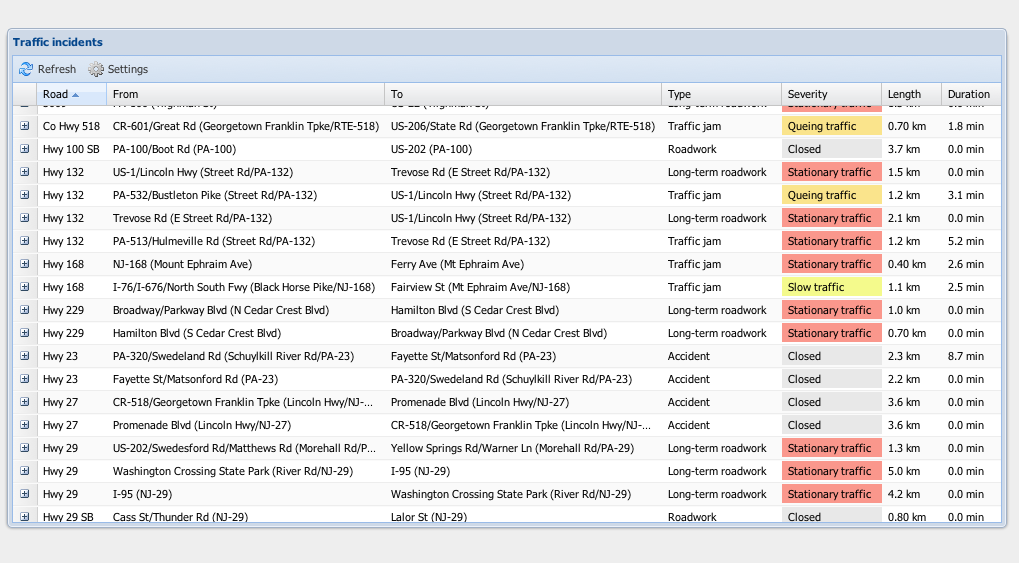
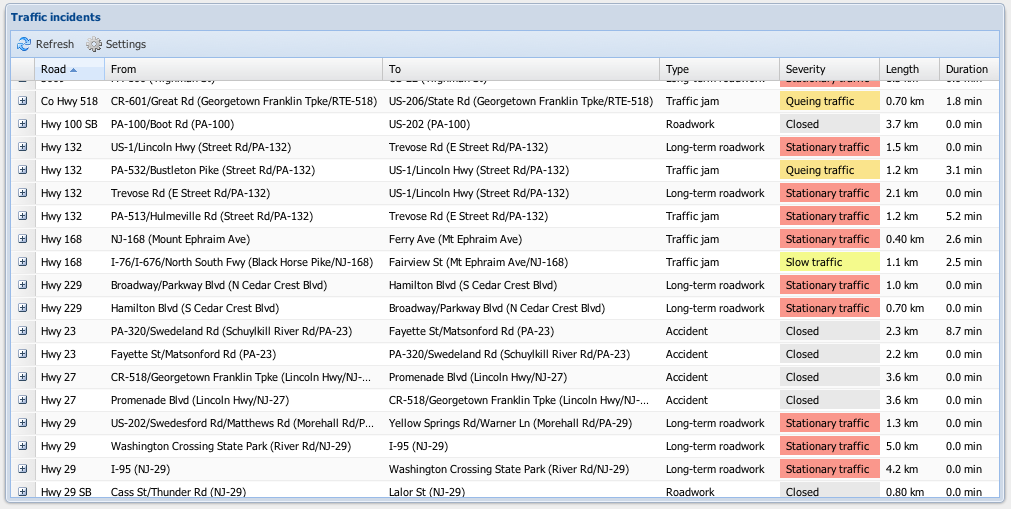
Added a screenshot to the readme and fixed the blogpost URL
Also cropped the screenshots properly

diff --git a/README.md b/README.md
@@ -1,5 +1,7 @@
 # TomTom-Live-Traffic-Api-Example
 
+![Screenshot](screenshot1.png)
+
 ## License
 Copyright (c) 2012, Bobbie Smulders
 
@@ -7,7 +9,7 @@ Contact: <mail@bsmulders.com>
 
 ## Project goal
 
-This project houses the web application example belonging to this blogpost: [Using the TomTom Live Traffic API]()
+This project houses the web application example belonging to this blogpost: [Using the TomTom Live Traffic API](http://bsmulders.com/2012/03/using-the-tomtom-live-traffic-api/)
 
 ## Project components
 
